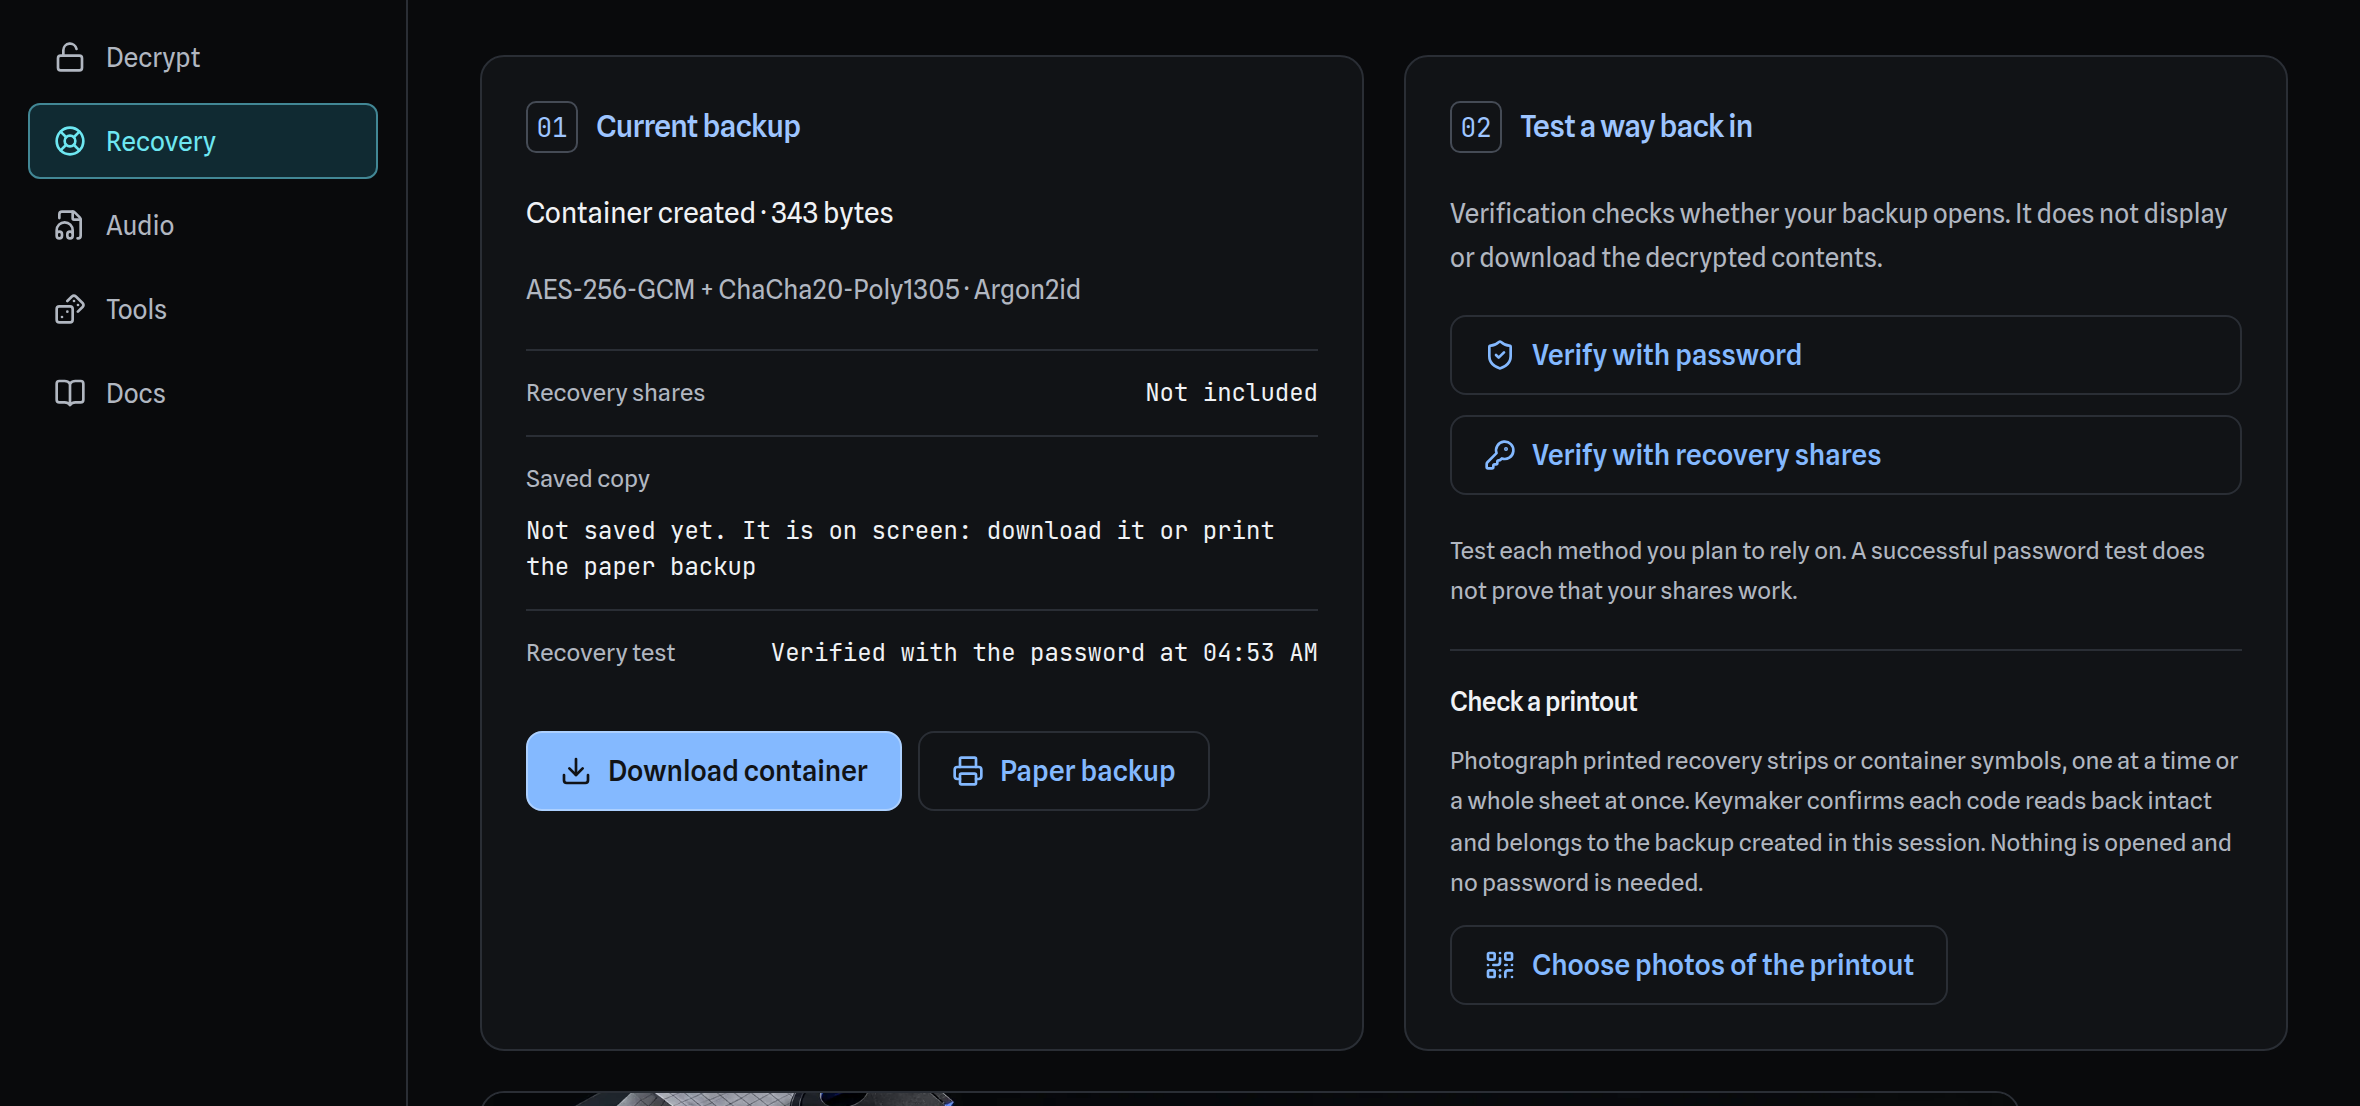
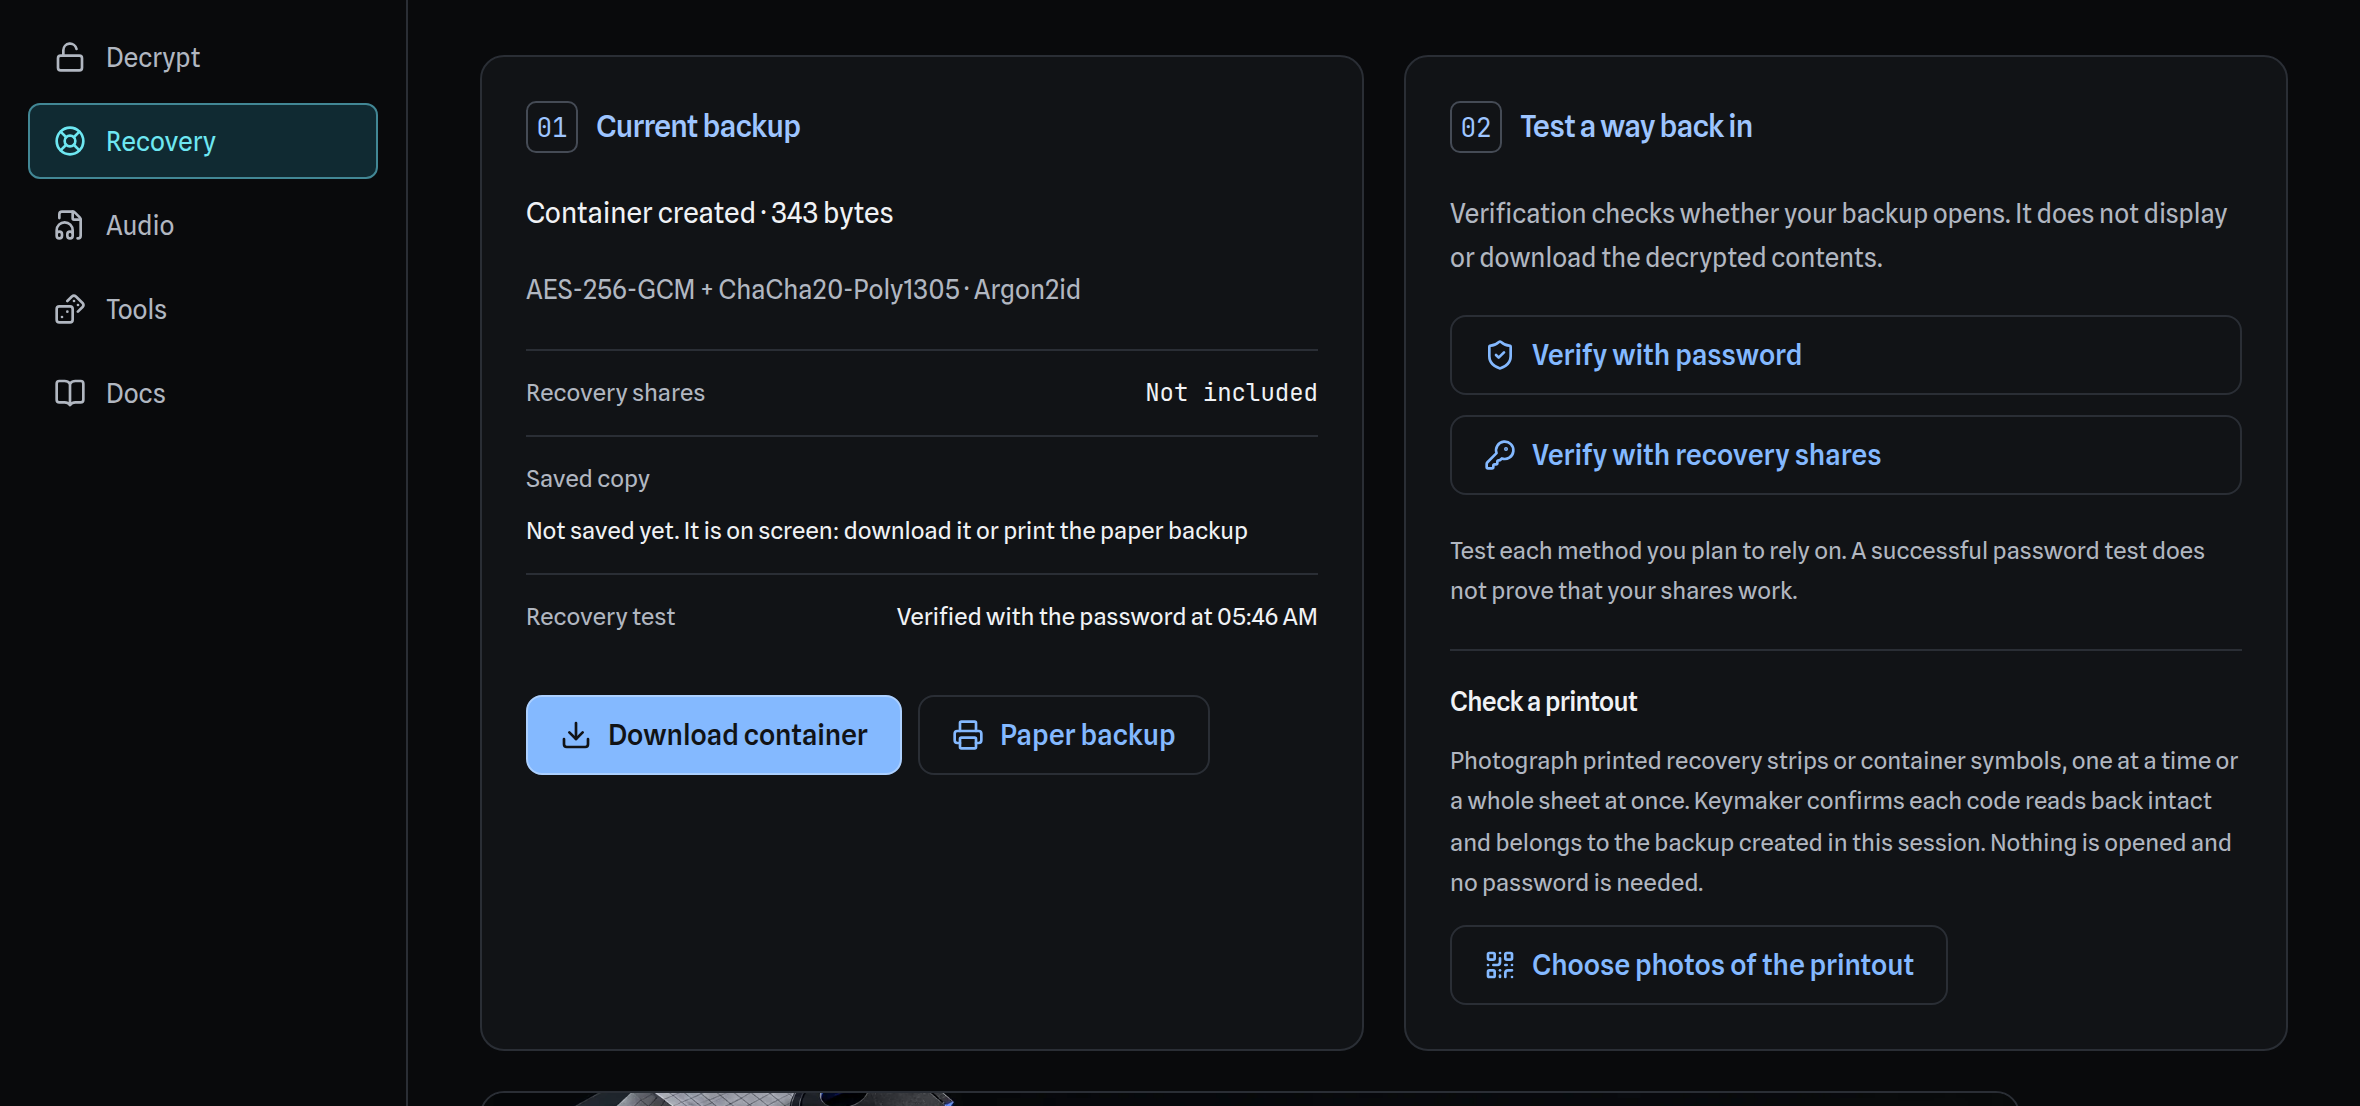
Set the Recovery tab's sentences in the body face
Usability finding S6. The Recovery tab's facts list set every value in
the monospace data face, including the "Saved copy" and "Recovery test"
lines, which are whole sentences and read slowly that way.

Those two are now in the body face. "Recovery shares", a short value
such as "2 of 3 needed", keeps monospace.

A new test in recovery-test-keeps.spec.ts compares computed fonts;
removing the class fails it. 13-recovery-tested.png is recaptured. The
usability report now records all six findings as fixed.

Claude-Session: https://claude.ai/code/session_01GbCLpWTtk1prQYV8z6rYHr

Changed region(s): [[0.2165, 0.5533, 0.5568, 0.7378], [0.2165, 0.4611, 0.5568, 0.5226]]

diff --git a/src/components/encryptor/recovery-tab.tsx b/src/components/encryptor/recovery-tab.tsx
@@ -48,7 +48,7 @@ export function RecoveryTab() {
               )}
               <dl className="km-recovery-facts">
                 <div><dt>Recovery shares</dt><dd>{receipt.shares ? `${receipt.shares.threshold} of ${receipt.shares.count} needed` : "Not included"}</dd></div>
-                <div><dt>Saved copy</dt><dd data-testid="recovery-saved-copy">{
+                <div><dt>Saved copy</dt><dd data-testid="recovery-saved-copy" className="km-fact-sentence">{
                   fromDisk
                     ? `A saved file was loaded at ${when(fromDisk.at)}, matched this backup byte for byte, and opened with ${openedWith(fromDisk.how)}.`
                     : !receipt.onScreen
@@ -61,7 +61,7 @@ export function RecoveryTab() {
                         ". The browser does not tell this page whether the file was kept or the sheet printed, so check that it was."
                       : "Not saved yet. It is on screen: download it or print the paper backup"
                 }</dd></div>
-                <div><dt>Recovery test</dt><dd data-testid="recovery-test">{rehearsal.kind === "ok" ? `Rehearsed on ${rehearsal.on}${rehearsal.strips.length > 0 ? ` with strips ${rehearsal.strips.join(" and ")}` : ""}` : verified.length > 0 ? `Verified with ${openedWith(verified[verified.length - 1]!.how)} at ${when(verified[verified.length - 1]!.at)}` : "Not tested yet in this session"}</dd></div>
+                <div><dt>Recovery test</dt><dd data-testid="recovery-test" className="km-fact-sentence">{rehearsal.kind === "ok" ? `Rehearsed on ${rehearsal.on}${rehearsal.strips.length > 0 ? ` with strips ${rehearsal.strips.join(" and ")}` : ""}` : verified.length > 0 ? `Verified with ${openedWith(verified[verified.length - 1]!.how)} at ${when(verified[verified.length - 1]!.at)}` : "Not tested yet in this session"}</dd></div>
               </dl>
               {receipt.onScreen ? (
                 <div className="km-action-row">

diff --git a/tests/browser/recovery-test-keeps.spec.ts b/tests/browser/recovery-test-keeps.spec.ts
@@ -118,3 +118,20 @@ test("a wipe still takes the backup", async ({ page }) => {
   await tab(page, "Recovery").click();
   await expect(visible(page.getByText(/No newly created backup/))).toBeVisible();
 });
+
+test("the Recovery tab sets its sentences in the body face and its data in monospace", async ({ page }) => {
+  // Usability finding S6: whole sentences in the monospace data face read slowly.
+  await seal(page);
+  await tab(page, "Recovery").click();
+  const font = (testId: string) =>
+    visible(page.getByTestId(testId)).evaluate((el) => getComputedStyle(el).fontFamily);
+  const shares = await visible(page.locator(".km-recovery-facts dd").first()).evaluate(
+    (el) => getComputedStyle(el).fontFamily
+  );
+  const body = await visible(page.getByText(/Verification checks whether your backup opens/)).evaluate(
+    (el) => getComputedStyle(el).fontFamily
+  );
+  expect(await font("recovery-saved-copy"), "the saved-copy sentence is not in the body face").toBe(body);
+  expect(await font("recovery-test"), "the recovery-test sentence is not in the body face").toBe(body);
+  expect(shares, "the shares value lost its monospace").not.toBe(body);
+});

diff --git a/src/app/globals.css b/src/app/globals.css
@@ -392,6 +392,9 @@
 .km-recovery-facts > div { display: flex; flex-wrap: wrap; justify-content: space-between; gap: 8px; border-top: 1px solid var(--color-border); padding: 12px 0; }
 .km-recovery-facts dt { color: var(--color-muted-foreground); }
 .km-recovery-facts dd { font-family: var(--font-mono); }
+/* Usability finding S6: a value that is a sentence reads in the body face;
+   monospace stays for short data such as "2 of 3 needed". */
+.km-recovery-facts dd.km-fact-sentence { font-family: inherit; }
 .km-recovery-options { display: grid; gap: 10px; }
 .km-recovery-options > button { justify-content: flex-start; }
 .km-help { font-size: 12px; line-height: 1.7; color: var(--color-muted-foreground); }

diff --git a/docs/reports/USABILITY-2026-09-29.md b/docs/reports/USABILITY-2026-09-29.md
@@ -36,12 +36,12 @@ which `npm run test:screenshots` checks.
 | S3 | **The step grid's rows do not line up.** "Check saved copy" and "Prepare recovery" wrap to two lines at this width, so in the second row "Create" sits higher than its neighbours and the three state words sit at two heights. | **Fixed.** Both: the labels are "Saved copy" and "Recovery test", and each step is two rows with the state at the bottom, so a row's labels share a top and its states share a line even where a label still wraps. Checked by measuring the rows in `workflow-steps.spec.ts`. | Shorter labels ("Saved copy", "Recovery"), or a grid that aligns the state words on a common row. |
 | S4 | **"Check saved copy" names only half of what completes it.** Its sentence says "Download it or print the paper vault, then check the copy", but not how to check. The two ways are loading the saved file on the Decrypt tab and verifying it, or photographing every printed symbol on the Recovery tab. The walkthrough now says so; the page does not. | **Fixed.** The step's sentence names both ways, before and after a download or print has started. Checked in `test:backup-workflow`. | Name both ways in the sentence, or link to the Recovery tab's printout check. |
 | S5 | **"credentials" is the page's word, not the owner's.** The stale-verify notice says "Changed since: credentials" for a newly typed password. | **Fixed.** The notice now says "password or recovery shares". Checked in `test:backup-workflow` and `verify-evidence.spec.ts`. | "password or recovery shares". |
-| S6 | **Long sentences set in monospace.** The Recovery tab's "Saved copy" and "Recovery test" values are full sentences in the monospace data face, which reads slowly at this length. Predates Section 06. | Open, minor. | Body face for sentences; keep monospace for values such as byte counts. |
+| S6 | **Long sentences set in monospace.** The Recovery tab's "Saved copy" and "Recovery test" values are full sentences in the monospace data face, which reads slowly at this length. Predates Section 06. | **Fixed.** "Saved copy" and "Recovery test" are in the body face; "Recovery shares" keeps monospace. Checked by computed font in `recovery-test-keeps.spec.ts`. | Body face for sentences; keep monospace for values such as byte counts. |
 | S7 | **The Format detail label wraps.** "Format detail (header bytes, offsets, KDF parameters)" takes two lines in the pane header at 1180 wide. | **Fixed.** The label is "Format detail"; the list is in a tooltip beside it and in the switch's accessible description. Checked in `workflow-expert-view.spec.ts`. | Keep "Format detail" as the label and move the list into a tooltip or the pane's help text. |
 
-S1 was a defect in behaviour and is fixed here. S2 to S7 are copy and layout;
-each changes what an owner reads, so each is left for a reviewed change of its
-own rather than folded into the screenshots.
+S1 was a defect in behaviour and is fixed in the same change as this report.
+S2 to S7 are copy and layout, and each was fixed in a pull request of its own
+after the report was written; the rows above record how each was checked.
 
 ---
 

diff --git a/CHANGELOG.md b/CHANGELOG.md
@@ -19,6 +19,8 @@
   only when a rehearsal from the shares has opened it.
 
 ### Fixed
+- **The Recovery tab set whole sentences in monospace.** The saved-copy and
+  recovery-test lines are now in the body face; short data keeps monospace.
 - **The stale-verify notice said "credentials".** It now says "password or
   recovery shares".
 - **The saved-copy step did not say how to check the copy.** It now names both
